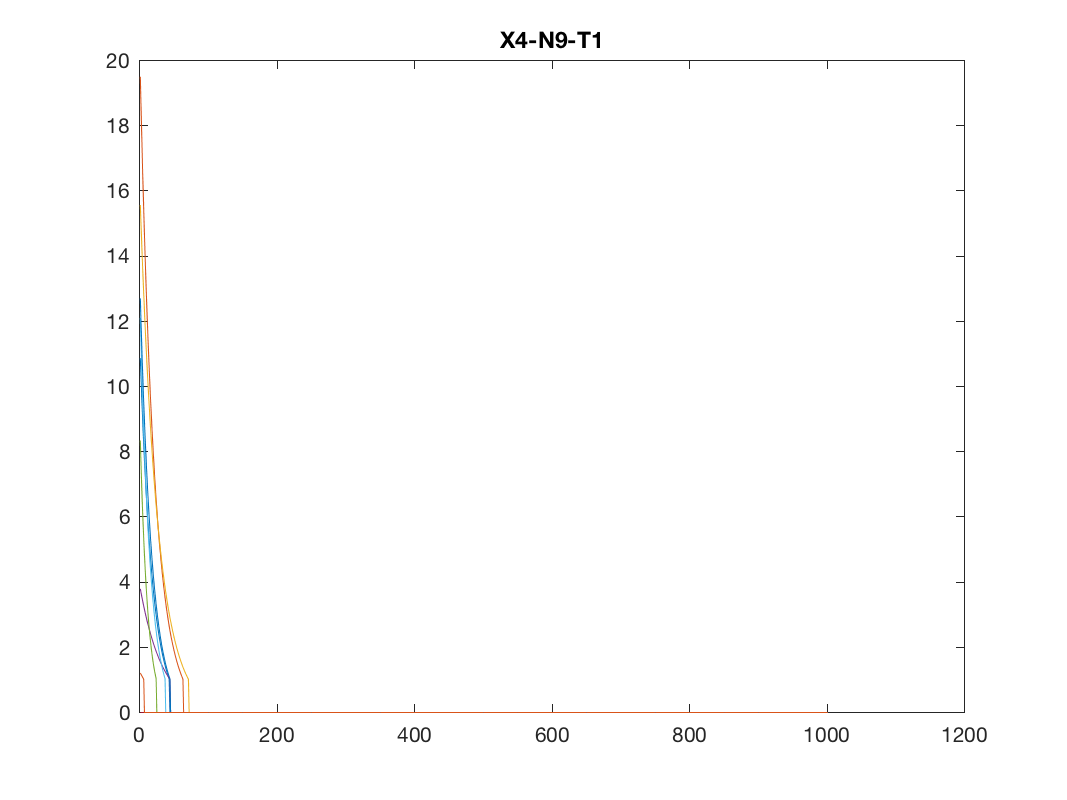
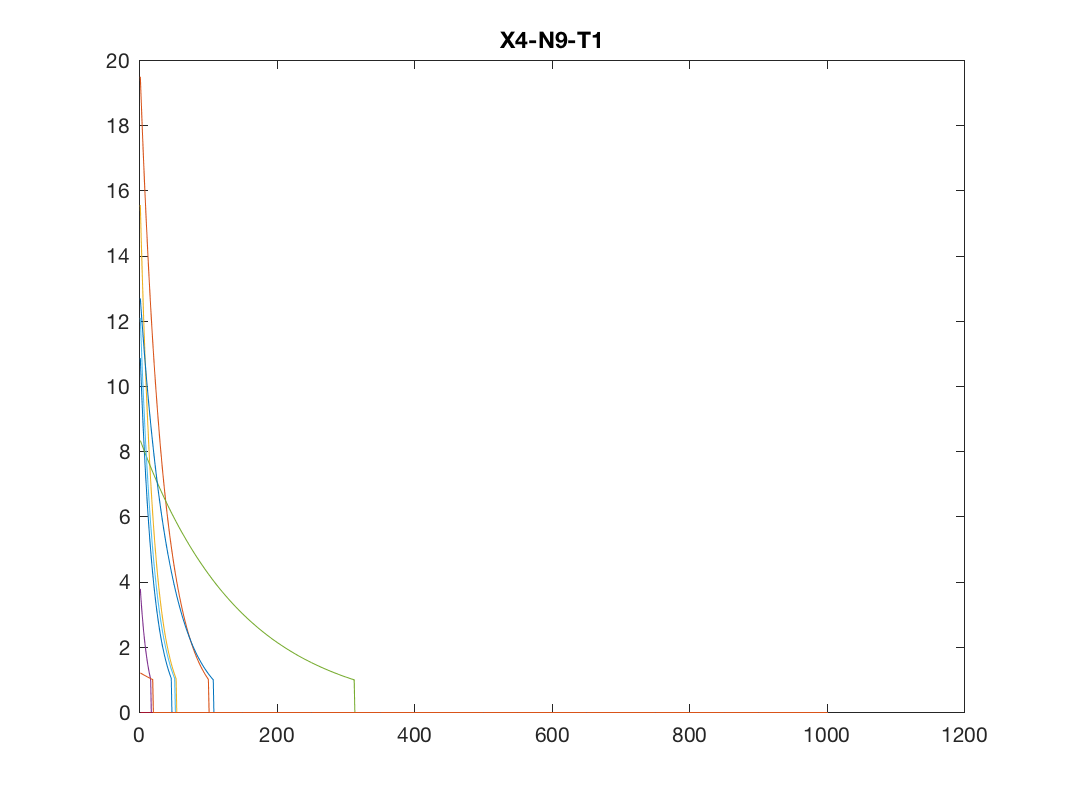
update code

Changed region(s): [[0.1237, 0.2188, 0.2165, 0.9062]]

diff --git a/netodepownorm.m b/netodepownorm.m
@@ -3,15 +3,19 @@
 function dydt = netodepownorm(t, y, P, N, A, M, n, pow)
 % ode function used to generate networks
 
-P = frameTo(P, 2, 2);
+% P = frameTo(P, 2, 2);
 
 dydt = zeros(n,1);
 parfor node = 1:n
     temp1 = ((N>0).*y).^pow;
     temp1k = ((N>0).*P(node,:)).^pow;
+    temp1c = temp1 + temp1k;
+    temp1(temp1 == 0) = 1;
     temp2 = ((N<0).*y).^pow;
     temp2k = ((N<0).*P(node,:)).^pow;
-    dydt(node) = A(node).*prod(temp1)/(prod(temp1k+temp1).*prod(temp2k+temp2)) - M(node).*y(node);
+    temp2c = temp2 + temp2k;
+    temp2c(temp1 == 0) = 1;
+    dydt(node) = A(node).*prod(temp1)/(prod(temp1c).*prod(temp2c)) - M(node).*y(node);
 end
 
 end

diff --git a/netrun.m b/netrun.m
@@ -11,10 +11,10 @@ else
     end
     
     tspan = 0:0.1:ph;
-
-        [t,y] = ode45(@(t,y) netodepownorm(t,y,P,N,A,M,n,pow), tspan, y0);
-%     [t,y] = ode45(@(t,y) netodepow(t,y,P,N,A,M,n), tspan, y0);
-%     [t,y] = ode45(@(t,y) netode(t,y,P,N,A,M,n), tspan, y0);
+    
+    [t,y] = ode45(@(t,y) netodepownorm(t,y,P,N,A,M,n,pow), tspan, y0);
+    %     [t,y] = ode45(@(t,y) netodepow(t,y,P,N,A,M,n), tspan, y0);
+    %     [t,y] = ode45(@(t,y) netode(t,y,P,N,A,M,n), tspan, y0);
     y = nontrivial(y,zthrs);
     c = size(y,1);
     neq = (abs(mean(y(c-2,:)-y(c,:))) < sstrshd);

diff --git a/GRN_N_Net.m b/GRN_N_Net.m
@@ -24,7 +24,7 @@ zthrs = 1;       % threshold for non-trivial states
 Nr = 20;  % range of initial states
 Pr = 50;  % range of parameters
 Ar = 100; % range of synthesis rate
-pow = 4;  % range of power increase
+pow = 3;  % range of power increase
 
 x0 = Nr*rand(trial, n);
 
